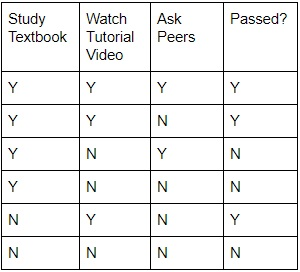
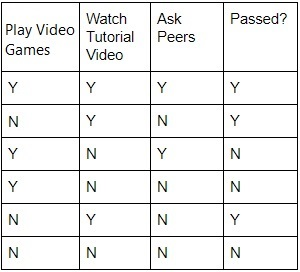
completed decision tree section

Changed region(s): [[0.0, 0.0294, 0.27, 0.2059], [0.03, 0.4118, 0.06, 0.4706]]

diff --git a/_pages/testing_page.md b/_pages/testing_page.md
@@ -40,6 +40,12 @@ Before we explore how decision trees works, we need to understand the following 
  - Entropy: It indicates how pure one subset is. In other words, it tells you how un-certain you are about a randomly picked item is yes or no. We want to **minimize entropy** as much as possible. We will explore further below in detail.
  - Information gain: It measures how useful a feature is for splitting the label (yes/no). We want to **maximize information gain**, and the feature with the highest information gain will split first.
 
+## Characteristics of Decision Trees
+ - Easy to understand and explain
+ - Can handle non-linear features
+ - Prone to overfitting
+ - cannot train unseen categorical values
+
 ## How does decision trees work?
 
 There are many ways to measure the purity of the split. One way is utilizing entropy and information gain.
@@ -50,6 +56,11 @@ Entropy: $$H(S) = -p_1 log_2 p_1 – p_0 log_2 p_0$$, where $$S$$ is the subset 
 Consider the table above, if we do NOT ask peers, there will be 4 possible outcomes: 2 Yes (indicating pass) and 2 No (indicating no pass). The entropy, $$H(S)$$, then would be $$-0.5 log_2 0.5-0.5 log_2 0.5=1$$ bit. On the other hand, if we watch video, we will be have 3 possible outcomes, which are all yes. $$H(S)$$ would be $$1 log_2 1 - 0 log_2 0=0$$ bit.
 
 Information gain
-Information gain measures how useful a feature is for splitting the label (yes/no). We want to **maximize information gain**, and the feature with the highest information gain will split first.
-is the expected reduction in entropy due to sorting on a particular attribute (say an attribute that has small entropy)
-For example, the information gain of studying textbook is: $$Gain(S, "study textbook")= H(S) - ( p(study)H(S_study)+p(not study)H(S_notStudy) )$$
+
+let A = playing video games, and B = not playing video games
+The information gain of playing games is: $$Gain(S, game)= H(S) - ( p(A)H(S_A)+p(B)H(S_B) )$$. Here H(S) = 1 because there are 6 possible outcomes, 3 yes and 3 no. The probability of playing games is 3/6, and the probability of not playing games is 3/6. The entropy of playing games is $$-0.33 log_2 0.33-0.67 log_2 0.67=0.91$$, and entropy for not playing games is $$-0.67 log_2 0.67-0.33 log_2 0.33=0.91$$. Therefore, $$Gain(S, "game")= 1 - ( 0.5*0.91+0.5*0.91 )=0.09$$.
+
+ $$Gain(S, "video")= 1 - ( 1*0+0*0 )=1$$.
+ $$Gain(S, "Ask peers")= 1 - ( 2/6*1+4/6*1 )=0$$.
+
+Therefore, the predictor for predicting whether we are going to pass or not is watching tutorial videos (yes/no).
